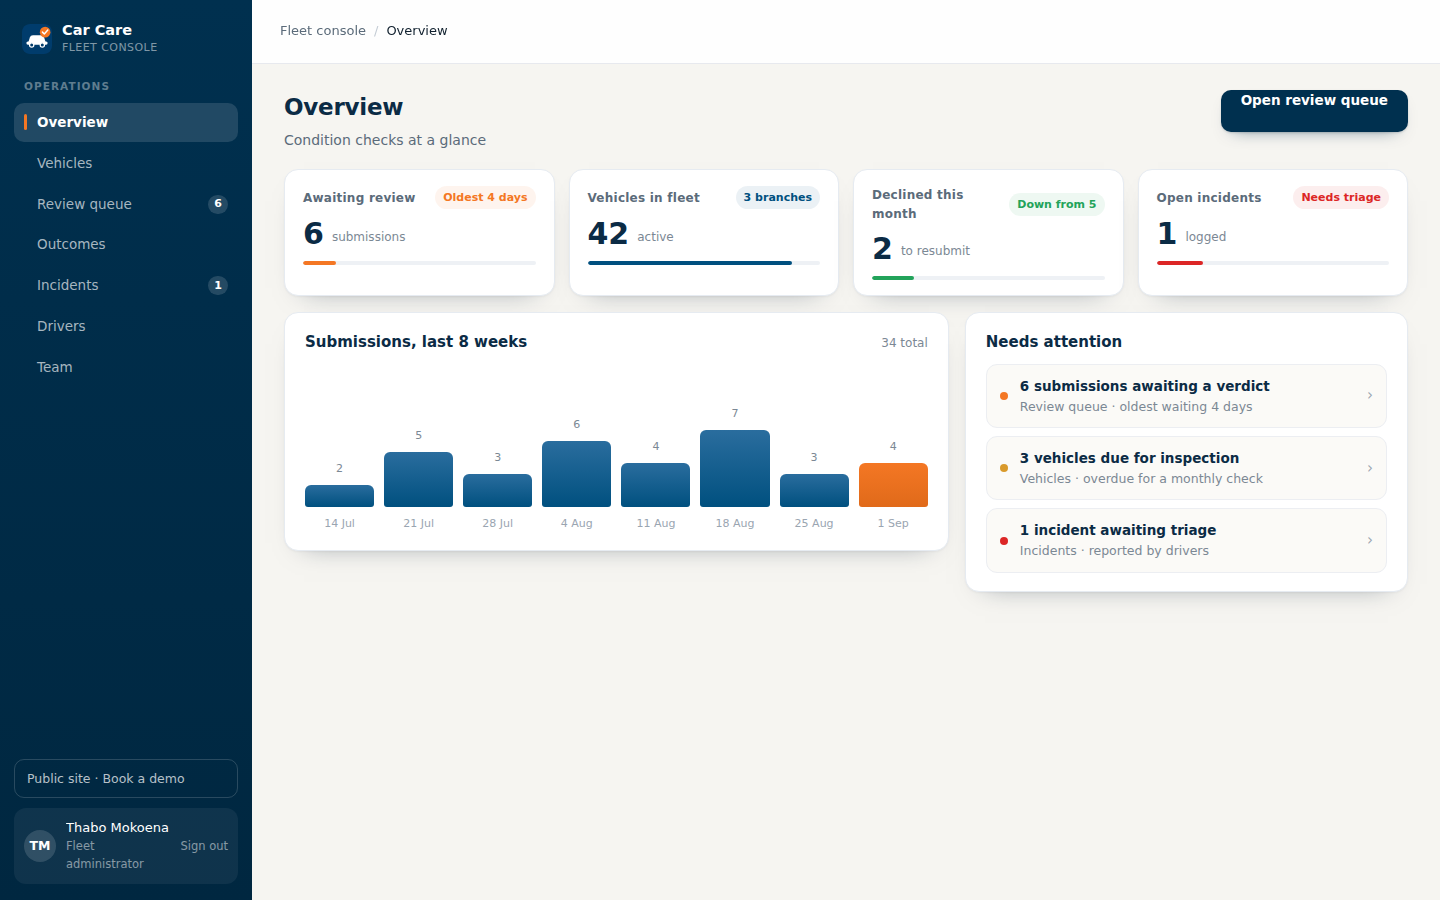
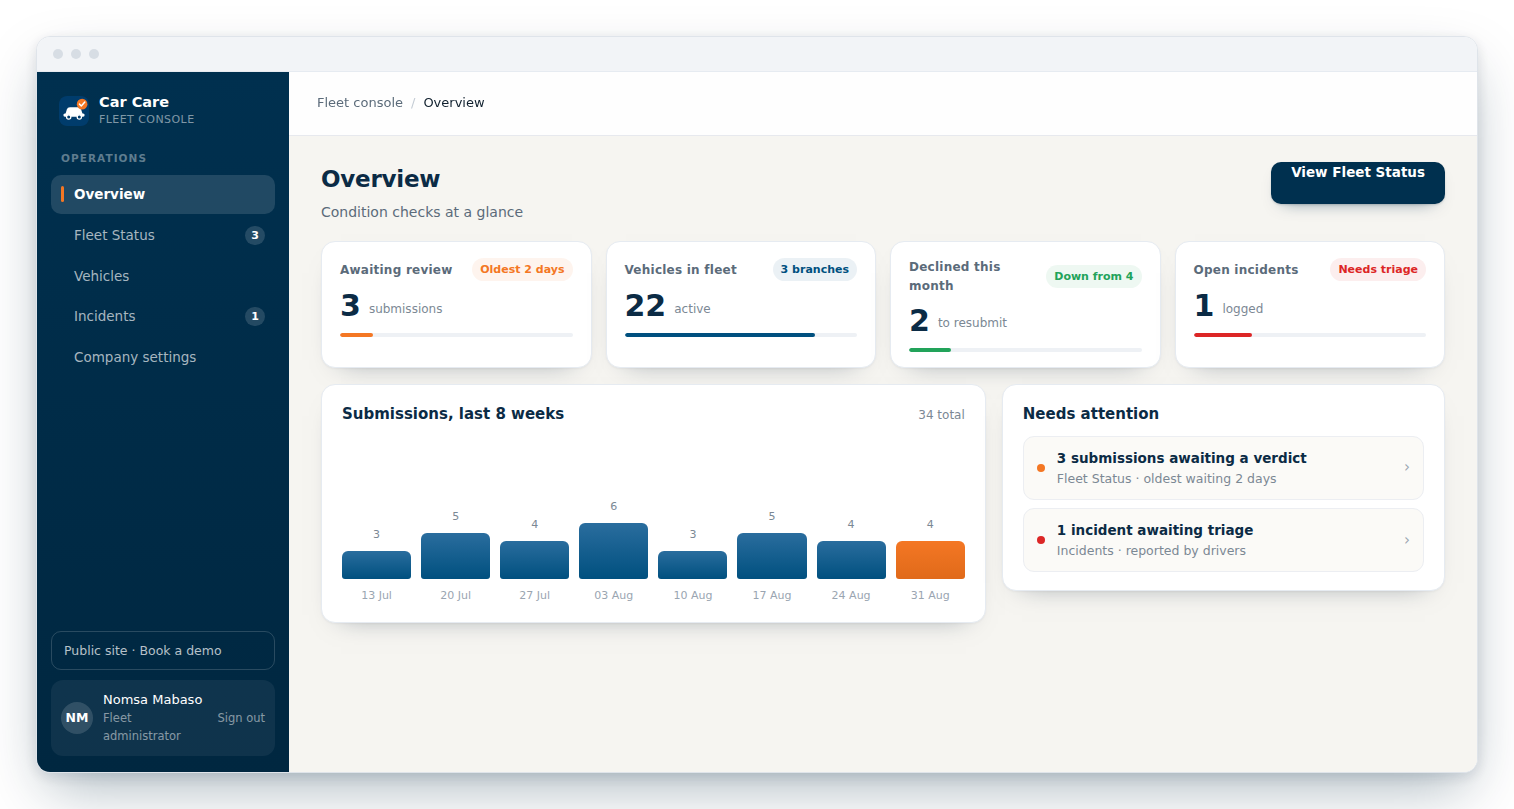
Show the admin and driver screens as device-framed mockups, side by side
The "See it in action" section previously showed two plain, un-framed
screenshots stacked vertically. Rebuilt both: the fleet console now
appears landscape inside a simple browser-window frame, and the driver
app appears portrait inside a phone frame, laid out side by side (falling
back to a stacked single column on narrow screens). Both use placeholder
data, not real customer data. Updated the admin caption to "Your Fleet
Status report" to match this session's earlier positioning rewrite.

Claude-Session: https://claude.ai/code/session_01BPQ8VU5xzbExMBePjqwtTB

diff --git a/src/pages/Landing.jsx b/src/pages/Landing.jsx
@@ -87,11 +87,11 @@ export function Landing() {
         <h2 className="landing-section-title">See it in action</h2>
         <div className="landing-shots-grid">
           <div className="landing-shot">
-            <img src="/screenshots/admin-preview.png" alt="Car Care fleet console showing the review queue, vehicle count and recent submissions" loading="lazy" />
-            <p className="landing-shot-caption">Your fleet team's dashboard</p>
+            <img src="/screenshots/admin-preview.png" alt="Car Care Fleet Status report showing vehicle counts, recent submissions and items needing attention" loading="lazy" />
+            <p className="landing-shot-caption">Your Fleet Status report</p>
           </div>
           <div className="landing-shot">
-            <img src="/screenshots/customer-preview.png" alt="Car Care driver app showing a vehicle's condition check status and quick actions" loading="lazy" />
+            <img src="/screenshots/customer-preview.png" alt="Car Care driver app on a phone, showing a vehicle's condition check status and quick actions" loading="lazy" />
             <p className="landing-shot-caption">Your drivers' app</p>
           </div>
         </div>

diff --git a/src/index.css b/src/index.css
@@ -1207,13 +1207,10 @@ textarea {
 .landing-feature h3 { font-size: 16px; font-weight: 600; color: var(--ink-900); margin: 0 0 8px; }
 .landing-feature p { margin: 0; color: var(--muted); line-height: 1.6; text-wrap: pretty; }
 
-.landing-shots-grid { display: grid; grid-template-columns: 1fr; gap: 40px; }
+.landing-shots-grid { display: grid; grid-template-columns: 3.3fr 1fr; gap: 40px; align-items: center; }
 .landing-shot img {
   width: 100%;
   display: block;
-  border-radius: var(--r-card-lg);
-  border: 1px solid var(--border);
-  box-shadow: var(--sh-card-lg);
 }
 .landing-shot-caption { margin: 14px 0 0; text-align: center; font-size: 13.5px; font-weight: 600; color: var(--ink-900); }
 
@@ -1308,7 +1305,9 @@ textarea {
   .app-header { padding: 0 16px; }
   .form-grid,
   .card-actions-grid,
-  .review-grid { grid-template-columns: 1fr; }
+  .review-grid,
+  .landing-shots-grid { grid-template-columns: 1fr; }
+  .landing-shots-grid .landing-shot { max-width: 320px; margin: 0 auto; }
   .drawer { width: 100%; max-width: 100%; }
   .card-band { padding: 16px 18px; }
 }
